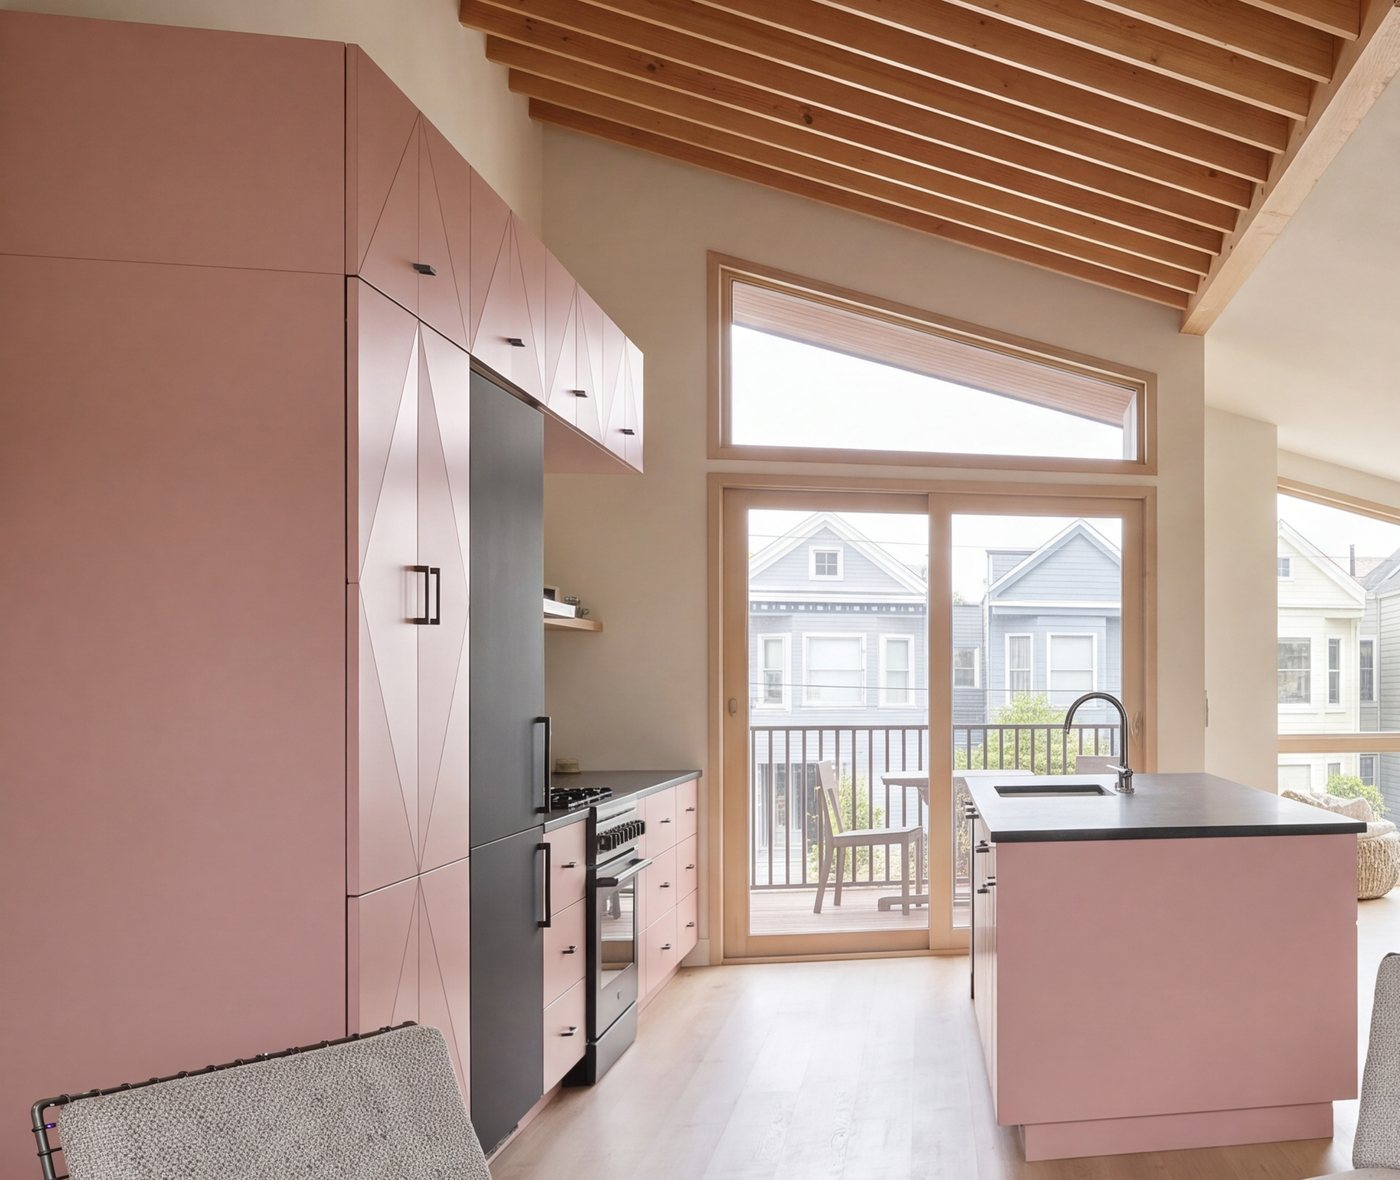
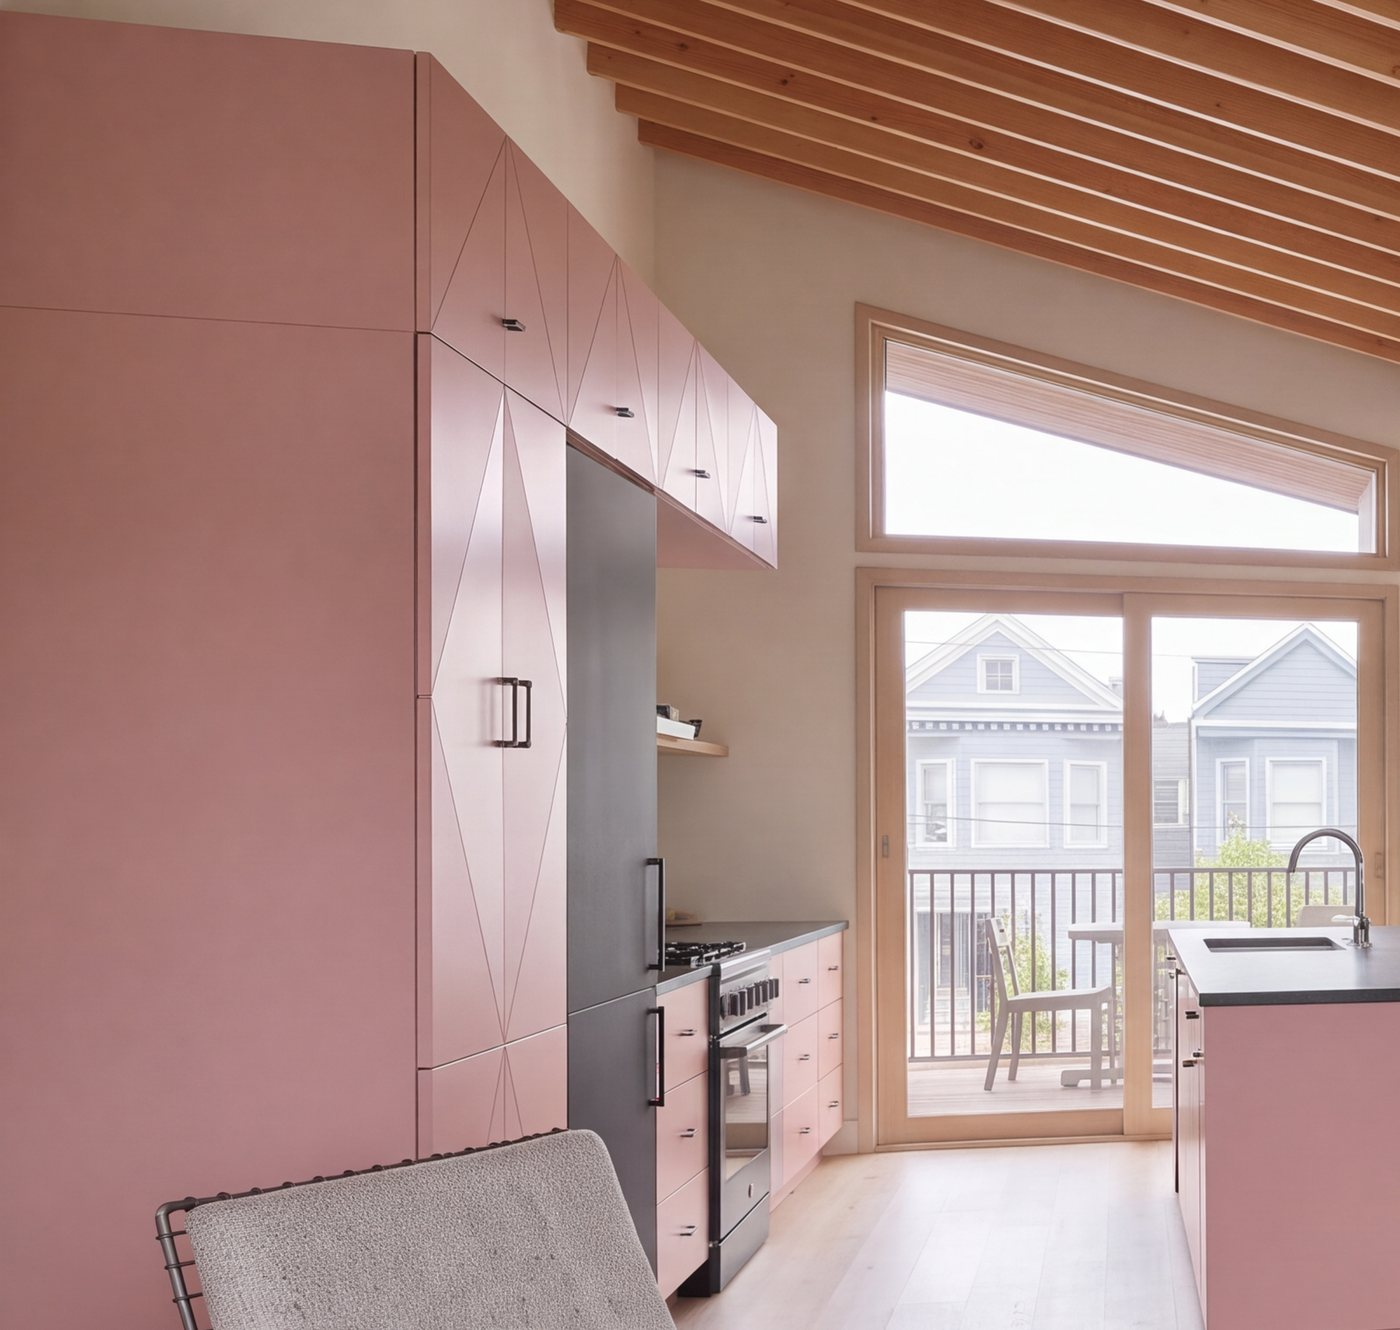
Rename Project 02 to Southern San Francisco home for a family of 3; replace its photo
Claude-Session: https://claude.ai/code/session_01QzwJYn8mkGjJQosH4Gy7kk

diff --git a/south-sf/index.html b/south-sf/index.html
@@ -3,11 +3,11 @@
 <head>
 <meta charset="utf-8">
 <meta name="viewport" content="width=device-width, initial-scale=1">
-<title>South San Francisco · TSD</title>
-<meta name="description" content="A TSD interior in South San Francisco: a pink kitchen under exposed fir beams, with the 3D model and the finished room.">
+<title>Southern San Francisco home for a family of 3 · TSD</title>
+<meta name="description" content="A TSD home in southern San Francisco for a family of three: a pink kitchen under exposed fir beams, with the 3D model and the finished room.">
 <link rel="canonical" href="https://tsd.suntracey.workers.dev/south-sf/">
 <meta property="og:type" content="website">
-<meta property="og:title" content="South San Francisco · TSD">
+<meta property="og:title" content="Southern San Francisco home for a family of 3 · TSD">
 <meta property="og:description" content="A pink kitchen under exposed fir beams, from 3D model to finished room.">
 <meta property="og:url" content="https://tsd.suntracey.workers.dev/south-sf/">
 <meta property="og:image" content="https://tsd.suntracey.workers.dev/assets/ssf-photo.jpg">
@@ -29,18 +29,18 @@
   </nav>
 </header>
 <main id="main" class="col">
-  <div class="ptitle"><p class="label">Project 02</p><h1>South San Francisco</h1></div>
+  <div class="ptitle"><p class="label">Project 02</p><h1>Southern San Francisco home for a family of 3</h1></div>
   <div class="story">
     <p>The kitchen, the seating area and the stair all share one room under a sloped ceiling. I left the fir joists exposed and painted the kitchen pink, so the cabinets and the beams are the two things you notice first.</p>
   </div>
-  <dl class="facts"><div><dt>Location</dt><dd>South San Francisco</dd></div><div><dt>Spaces</dt><dd>Kitchen · Living</dd></div></dl>
+  <dl class="facts"><div><dt>Location</dt><dd>Southern San Francisco</dd></div><div><dt>For</dt><dd>A family of 3</dd></div><div><dt>Spaces</dt><dd>Kitchen · Living</dd></div></dl>
 
   <section id="room" class="room">
     <h2>The finished room</h2>
     <figure>
-      <img class="wide" src="../assets/ssf-photo.jpg" alt="Open kitchen and living room under a sloped ceiling with exposed fir joists: pink cabinets and a pink island with dark stone counters, pale oak floors, two wire-frame lounge chairs, a round walnut coffee table and a built-in white media niche.">
+      <img class="wide" src="../assets/ssf-photo.jpg" alt="Open kitchen and living room under a sloped ceiling with exposed fir joists: pink cabinets and a pink island with dark stone counters, pale oak floors, two wire-frame lounge chairs and a round walnut coffee table on a patterned rug, and a built-in white media niche.">
     </figure>
-    <div class="story"><p>The pink cabinets have a diamond pattern cut into the fronts. The counters are dark stone, and the floor is pale oak. Wood-framed doors open from the kitchen to a small deck facing the street.</p></div>
+    <div class="story"><p>The pink cabinets have a diamond pattern cut into the fronts. The counters are dark stone, and the floor is pale oak. A rug in rust and cream marks out the seating area. Wood-framed doors open from the kitchen to a small deck facing the street.</p></div>
   </section>
 
   <section id="model" class="room">
@@ -60,7 +60,7 @@
 
   <section class="room">
     <h2>Details</h2>
-    <div class="stack"><img src="../assets/ssf-beams.jpg" alt="Exposed fir joists on the sloped ceiling above the pink cabinets" loading="lazy"><div class="pair"><img src="../assets/ssf-kitchen.jpg" alt="Pink kitchen cabinets with diamond-pattern fronts, a black range and a pink island" loading="lazy"><img src="../assets/ssf-window.jpg" alt="Wood-framed sliding doors and windows looking out to houses across the street" loading="lazy"></div><img src="../assets/ssf-seating.jpg" alt="Two wire-frame lounge chairs with grey cushions around a round walnut coffee table" loading="lazy"></div>
+    <div class="stack"><img src="../assets/ssf-beams.jpg" alt="Exposed fir joists on the sloped ceiling above the pink cabinets" loading="lazy"><div class="pair"><img src="../assets/ssf-kitchen.jpg" alt="Pink kitchen cabinets with diamond-pattern fronts, a black range and a pink island" loading="lazy"><img src="../assets/ssf-window.jpg" alt="Wood-framed sliding doors and windows looking out to houses across the street" loading="lazy"></div><img src="../assets/ssf-seating.jpg" alt="Two wire-frame lounge chairs with grey cushions around a round walnut coffee table on a rust and cream rug" loading="lazy"></div>
   </section>
   <nav class="pn" aria-label="More"><a href="../rooms/">← Back to rooms</a><a href="../home/">Project 01: A light-filled home →</a></nav>
 </main>

diff --git a/home/index.html b/home/index.html
@@ -99,7 +99,7 @@
     <h2>Details</h2>
     <div class="stack"><img src="../assets/detail-den-table.jpg" alt="Chrome and glass coffee table with a mushroom lamp and an open book" loading="lazy"><div class="pair"><img src="../assets/detail-den-sofa.jpg" alt="Brown corduroy sofa with a record rack and books on a green rug" loading="lazy"><img src="../assets/detail-den-lamp.jpg" alt="Chrome arc floor lamp with a marble base" loading="lazy"></div><img src="../assets/detail-dining.jpg" alt="Walnut dining table with leather cantilever chairs" loading="lazy"><div class="pair"><img src="../assets/detail-chair.jpg" alt="Cream lounge chair in afternoon light" loading="lazy"><img src="../assets/detail-console.jpg" alt="Walnut console with a mushroom lamp under a framed print" loading="lazy"></div><img src="../assets/detail-sofa.jpg" alt="Cream sofa and low wood table by tall windows" loading="lazy"><div class="pair"><img src="../assets/detail-cabinets.jpg" alt="Oak upper cabinets with under-cabinet light" loading="lazy"><img src="../assets/detail-window.jpg" alt="Sheer shade glowing with leaf shadows" loading="lazy"></div><img src="../assets/detail-lounge.jpg" alt="Olive sofa, rust lounge chair and paper lantern" loading="lazy"></div>
   </section>
-  <nav class="pn" aria-label="More"><a href="../rooms/">← Back to rooms</a><a href="../south-sf/">Project 02: South San Francisco →</a></nav>
+  <nav class="pn" aria-label="More"><a href="../rooms/">← Back to rooms</a><a href="../south-sf/">Project 02: Southern San Francisco home →</a></nav>
 </main>
 <footer class="foot">
   <div class="foot__row"><span>© 2026 TSD</span><span>Kentucky · New York City · San Francisco</span><a href="mailto:suntracey0327@gmail.com">suntracey0327@gmail.com</a></div>

diff --git a/style.css b/style.css
@@ -202,3 +202,6 @@ h3 { font-size: 23px; margin: 0; }
 .room img.wide { width: 100%; height: auto; }
 .rooms--next { margin-top: var(--space); }
 .col .study__note { margin-top: 0; }
+.ptitle h1 { max-width: 18ch; }
+.rooms__head h2, .ptitle h1 { text-wrap: balance; }
+.rooms__head h2 { max-width: 24ch; }

diff --git a/rooms/index.html b/rooms/index.html
@@ -58,7 +58,7 @@
     <div class="rooms__head">
       <div>
         <p class="label">Project 02</p>
-        <h2>South San Francisco</h2>
+        <h2>Southern San Francisco home for a family of 3</h2>
       </div>
       <a class="text-link" href="../south-sf/">View project →</a>
     </div>
